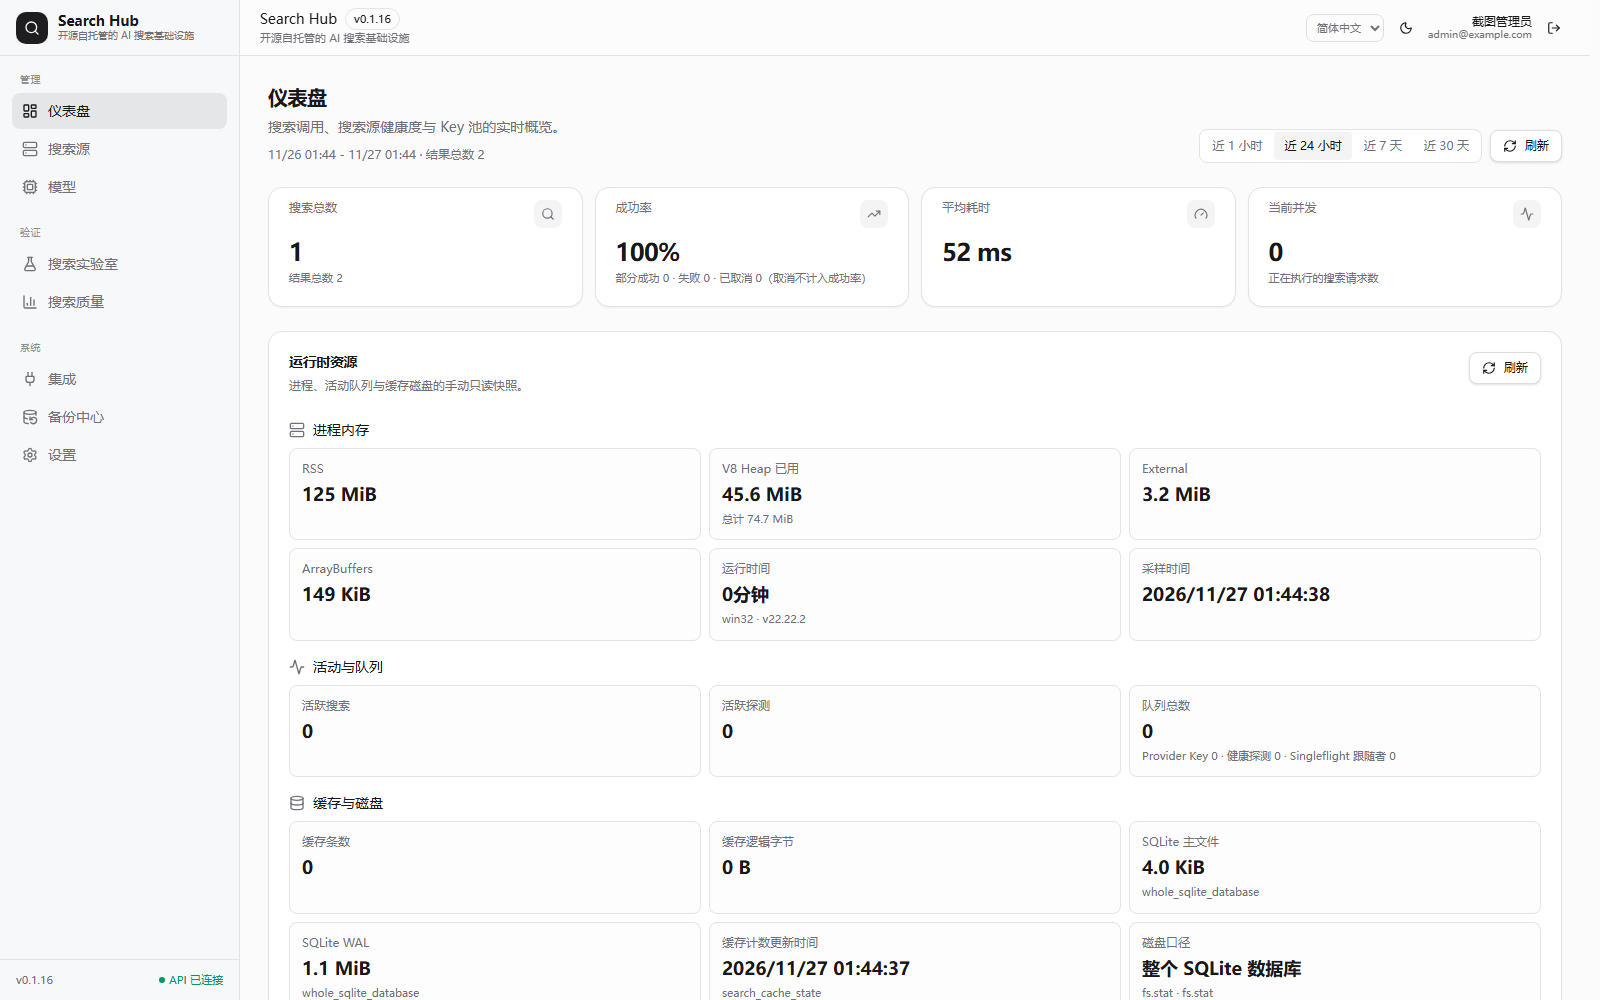
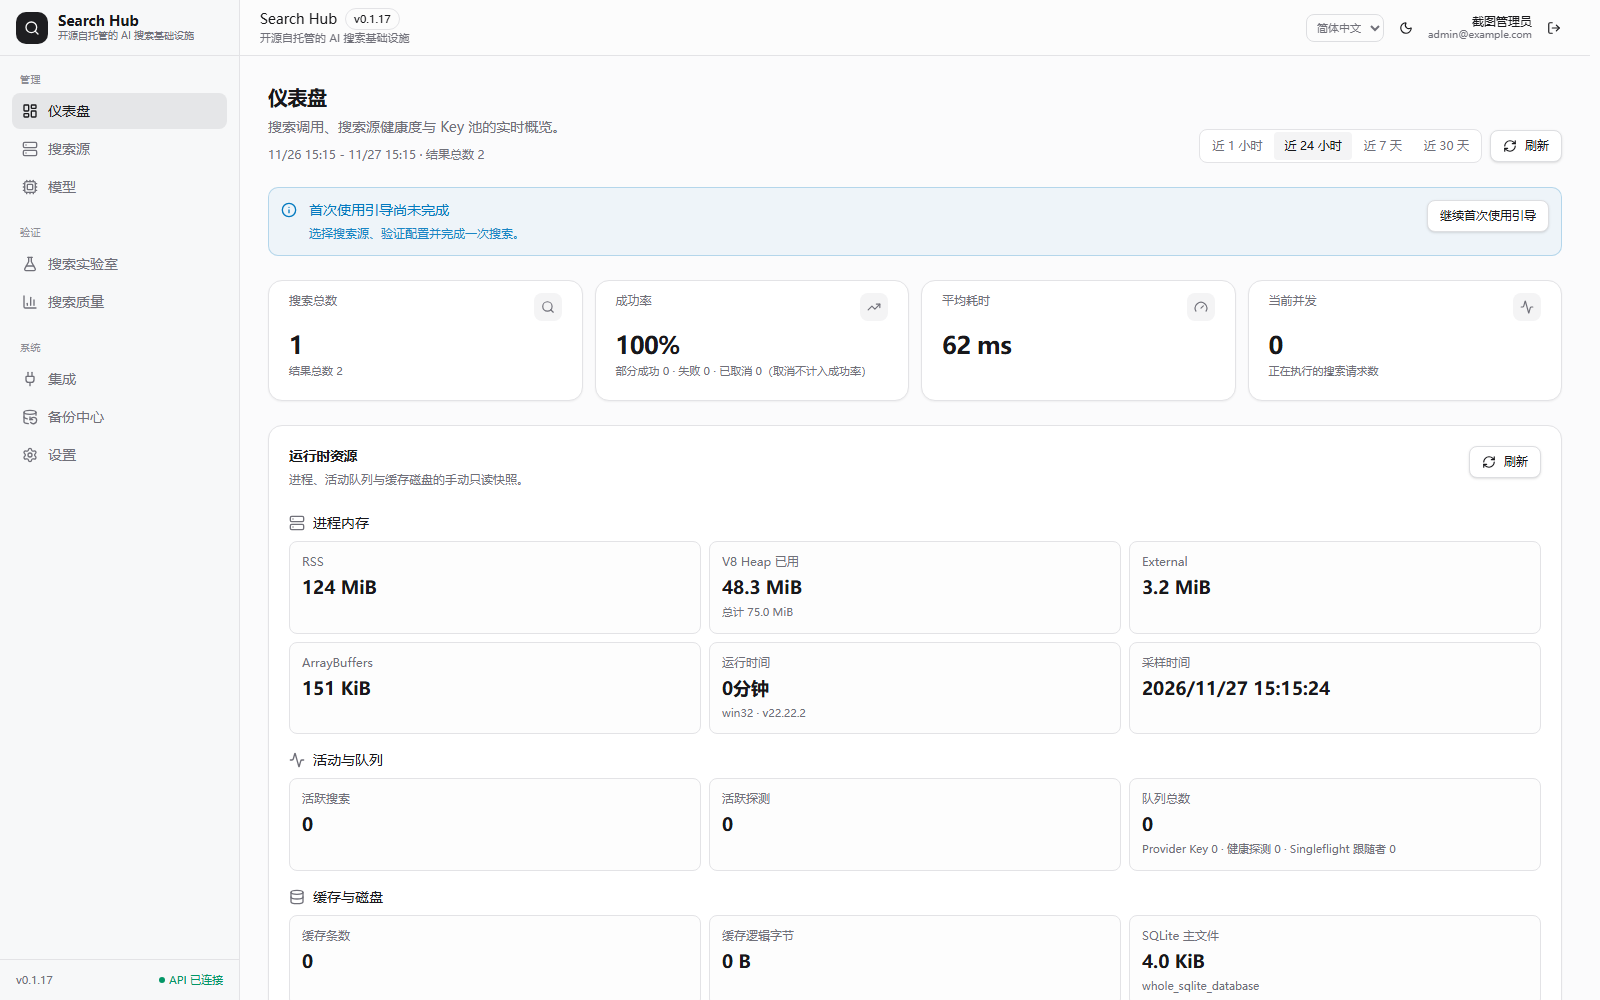
docs: capture v0.1.17 screenshots and update test mapping

diff --git a/tests/unit/readme-consistency.test.ts b/tests/unit/readme-consistency.test.ts
@@ -23,12 +23,12 @@ function actualReadmes() {
 }
 
 function captureComment(file: string, version: string) {
-  return `<!-- CAPTURE_REQUIRED: replace with the real v${version} docs/screenshots/v0116/${file} after capture. -->`;
+  return `<!-- CAPTURE_REQUIRED: replace with the real v${version} docs/screenshots/v0117/${file} after capture. -->`;
 }
 
 function replaceScreenshotsWithCaptureMarkers(text: string, version: string) {
   return text.replace(
-    /!\[[^\]]*\]\(\.\/docs\/screenshots\/v0116\/([^)\s]+)\)/g,
+    /!\[[^\]]*\]\(\.\/docs\/screenshots\/v0117\/([^)\s]+)\)/g,
     (_match, file: string) => captureComment(file, version),
   );
 }
@@ -36,9 +36,9 @@ function replaceScreenshotsWithCaptureMarkers(text: string, version: string) {
 function finalScreenshotRoot(): string {
   const root = mkdtempSync(join(tmpdir(), "search-hub-readme-final-"));
   temporary.push(root);
-  const screenshotDir = join(root, "docs", "screenshots", "v0116");
+  const screenshotDir = join(root, "docs", "screenshots", "v0117");
   mkdirSync(screenshotDir, { recursive: true });
-  for (const name of ["dashboard.png", "search-lab.png", "provider-health.png"]) {
+  for (const name of ["onboarding.png", "dashboard.png", "search-lab.png", "provider-health.png"]) {
     writeFileSync(join(screenshotDir, name), "fixture");
   }
   return root;
@@ -96,31 +96,31 @@ describe("README consistency gate", () => {
 
   it("rejects stale release versions and missing assets", () => {
     const { pkg, zh, en } = actualReadmes();
-    const stale = en.replaceAll("0.1.16", "0.1.15");
+    const stale = en.replaceAll(pkg.version, "0.1.16");
     const problems = checkReadmeConsistency({ zh, en: stale, version: pkg.version });
-    expect(problems.join("\n")).toContain("v0.1.16 Stable");
+    expect(problems.join("\n")).toContain(`v${pkg.version} Stable`);
     expect(problems.join("\n")).toContain("stale release asset");
     const missing = en.replace("`resource-evidence.json`", "`missing.json`");
     expect(checkReadmeConsistency({ zh, en: missing, version: pkg.version }).join("\n"))
       .toContain("missing release asset resource-evidence.json");
   });
 
-  it("requires exactly three interim placeholders and no screenshot links", () => {
+  it("requires exactly four interim placeholders and no screenshot links", () => {
     const { pkg, zh, en } = actualReadmes();
     const interimZh = replaceScreenshotsWithCaptureMarkers(zh, pkg.version);
     const interimEn = replaceScreenshotsWithCaptureMarkers(en, pkg.version);
     const missingOne = interimZh.replace(captureComment("search-lab.png", pkg.version), "");
     expect(checkReadmeConsistency({ zh: missingOne, en: interimEn, version: pkg.version, mode: "interim" }).join("\n"))
-      .toContain("exactly 3 CAPTURE_REQUIRED");
+      .toContain("exactly 4 CAPTURE_REQUIRED");
     const linked = interimZh.replace(
       captureComment("dashboard.png", pkg.version),
-      "![dashboard](./docs/screenshots/v0116/dashboard.png)",
+      "![dashboard](./docs/screenshots/v0117/dashboard.png)",
     );
     expect(checkReadmeConsistency({ zh: linked, en: interimEn, version: pkg.version, mode: "interim" }).join("\n"))
       .toContain("must not link screenshots before capture");
   });
 
-  it("requires zero placeholders and three real files in final mode", () => {
+  it("requires zero placeholders and four real files in final mode", () => {
     const { pkg, zh, en } = actualReadmes();
     const root = finalScreenshotRoot();
     expect(checkReadmeConsistency({ zh, en, version: pkg.version, mode: "final", root })).toEqual([]);
@@ -128,7 +128,7 @@ describe("README consistency gate", () => {
     const interimEn = replaceScreenshotsWithCaptureMarkers(en, pkg.version);
     expect(checkReadmeConsistency({ zh: interimZh, en: interimEn, version: pkg.version, mode: "final", root }).join("\n"))
       .toContain("0 CAPTURE_REQUIRED");
-    rmSync(join(root, "docs", "screenshots", "v0116", "dashboard.png"));
+    rmSync(join(root, "docs", "screenshots", "v0117", "dashboard.png"));
     expect(checkReadmeConsistency({ zh, en, version: pkg.version, mode: "final", root }).join("\n"))
       .toContain("screenshot file is missing");
   });
@@ -137,38 +137,38 @@ describe("README consistency gate", () => {
     const { pkg, zh, en } = actualReadmes();
     const root = mkdtempSync(join(tmpdir(), "search-hub-readme-paths-"));
     temporary.push(root);
-    const screenshotDir = join(root, "docs", "screenshots", "v0116");
+    const screenshotDir = join(root, "docs", "screenshots", "v0117");
     mkdirSync(screenshotDir, { recursive: true });
-    for (const name of ["dashboard.png", "search-lab.png", "provider-health.png"]) {
+    for (const name of ["onboarding.png", "dashboard.png", "search-lab.png", "provider-health.png"]) {
       writeFileSync(join(screenshotDir, name), "fixture");
     }
     const oldVersion = zh.replace(
-      "(./docs/screenshots/v0116/dashboard.png)",
+      "(./docs/screenshots/v0117/dashboard.png)",
       "(./docs/screenshots/v0115/dashboard.png)",
     );
     expect(checkReadmeConsistency({ zh: oldVersion, en, version: pkg.version, mode: "final", root }).join("\n"))
       .toContain("outside the expected set");
     const duplicate = zh.replace(
-      "(./docs/screenshots/v0116/search-lab.png)",
-      "(./docs/screenshots/v0116/dashboard.png)",
+      "(./docs/screenshots/v0117/search-lab.png)",
+      "(./docs/screenshots/v0117/dashboard.png)",
     );
     expect(checkReadmeConsistency({ zh: duplicate, en, version: pkg.version, mode: "final", root }).join("\n"))
       .toContain("final screenshot links must be exactly");
     const outOfScope = zh.replace(
-      "(./docs/screenshots/v0116/provider-health.png)",
-      "(./docs/screenshots/v0116/../private.png)",
+      "(./docs/screenshots/v0117/provider-health.png)",
+      "(./docs/screenshots/v0117/../private.png)",
     );
     expect(checkReadmeConsistency({ zh: outOfScope, en, version: pkg.version, mode: "final", root }).join("\n"))
       .toContain("outside the expected set");
     const outsideTree = zh.replace(
-      "(./docs/screenshots/v0116/provider-health.png)",
+      "(./docs/screenshots/v0117/provider-health.png)",
       "(./assets/dashboard.png)",
     );
     expect(checkReadmeConsistency({ zh: outsideTree, en, version: pkg.version, mode: "final", root }).join("\n"))
       .toContain("final screenshot links must be exactly");
     const normalized = zh.replace(
-      "(./docs/screenshots/v0116/dashboard.png)",
-      "(./docs/screenshots/v0116/../v0116/%64ashboard.png?cache=1#preview)",
+      "(./docs/screenshots/v0117/dashboard.png)",
+      "(./docs/screenshots/v0117/../v0117/%64ashboard.png?cache=1#preview)",
     );
     expect(checkReadmeConsistency({ zh: normalized, en, version: pkg.version, mode: "final", root })).toEqual([]);
     const withOrdinaryAsset = zh.replace("\n\n", "\n![ordinary asset](./assets/logo.png)\n");

diff --git a/tests/unit/release-gate.test.ts b/tests/unit/release-gate.test.ts
@@ -12,9 +12,10 @@ const sha = "a".repeat(40);
 const version = JSON.parse(readFileSync(new URL("../../package.json", import.meta.url), "utf8")).version as string;
 const currentTag = `v${version}`;
 const screenshotFiles = [
-  "docs/screenshots/v0116/dashboard.png",
-  "docs/screenshots/v0116/search-lab.png",
-  "docs/screenshots/v0116/provider-health.png",
+  "docs/screenshots/v0117/onboarding.png",
+  "docs/screenshots/v0117/dashboard.png",
+  "docs/screenshots/v0117/search-lab.png",
+  "docs/screenshots/v0117/provider-health.png",
 ];
 const readmeAnchors = [
   "top", "highlights", "screenshots", "quick-start", "interfaces",
@@ -36,7 +37,7 @@ function finalReadme(english: boolean): string {
   const facts = english
     ? [
         "mcp:use sources:read get_search_sources",
-        "Hacker News Crossref OpenAlex PubMed",
+        "Hacker News Crossref OpenAlex PubMed Wikipedia arXiv GitHub",
         "live_tested documented mock_verified",
         "Windows x64 Linux x64 Linux arm64 Docker Compose",
         "SHA256SUMS resource-evidence.json best-effort",
@@ -44,7 +45,7 @@ function finalReadme(english: boolean): string {
       ]
     : [
         "mcp:use sources:read get_search_sources",
-        "Hacker News Crossref OpenAlex PubMed",
+        "Hacker News Crossref OpenAlex PubMed Wikipedia arXiv GitHub",
         "live_tested documented mock_verified",
         "Windows x64 Linux x64 Linux arm64 Docker Compose",
         "SHA256SUMS resource-evidence.json best-effort",
@@ -70,7 +71,7 @@ function finalReadmeFixture(): string {
   writeFileSync(join(directory, "package.json"), JSON.stringify({ version, engines: { node: ">=22.12.0" } }));
   writeFileSync(join(directory, "README.md"), finalReadme(false));
   writeFileSync(join(directory, "README_EN.md"), finalReadme(true));
-  mkdirSync(join(directory, "docs", "screenshots", "v0116"), { recursive: true });
+  mkdirSync(join(directory, "docs", "screenshots", "v0117"), { recursive: true });
   writeFileSync(
     join(directory, "docs", "cli.md"),
     `# CLI\n\nshub-v${version}-node22.tar.gz\nNode.js >=22.12.0\n\n## Configuration\n`,
@@ -141,7 +142,7 @@ describe("release gate", () => {
 
   it("requires candidate workflow_dispatch evidence only in the six-workflow preflight", () => {
     const mainPush = Object.keys(REQUIRED_WORKFLOWS).map((path) => run(path));
-    const candidate = run("release-candidate.yml", { event: "workflow_dispatch", head_branch: "feat/v0116-stable" });
+    const candidate = run("release-candidate.yml", { event: "workflow_dispatch", head_branch: "feat/v0117-stable" });
     expect(evaluateRuns([...mainPush, candidate], sha).allGreen).toBe(true);
     expect(evaluateRuns(mainPush, sha).allGreen).toBe(true);
     expect(evaluateRuns(mainPush, sha, { includeCandidate: true }).allGreen).toBe(false);
@@ -217,7 +218,7 @@ describe("release gate", () => {
     expect(finalize.match(/gh release edit /g)).toHaveLength(1);
   });
 
-  it("accepts a final README fixture with three screenshots and valid links", () => {
+  it("accepts a final README fixture with four screenshots and valid links", () => {
     expect(verifyFinalReadme(finalReadmeFixture())).toEqual({ ok: true, version });
   });
 

diff --git a/tests/unit/readme-links.test.ts b/tests/unit/readme-links.test.ts
@@ -102,7 +102,7 @@ describe("README relative-link gate", () => {
 
   it("treats image targets as files and rejects a missing screenshot", () => {
     const root = fixtureRoot();
-    const text = "![missing](./docs/screenshots/v0116/dashboard.png)";
+    const text = "![missing](./docs/screenshots/v0117/dashboard.png)";
     expect(checkReadmeLinks({ text, label: "README.md", file: "README.md", root }).join("\n"))
       .toContain("links to missing file");
   });

diff --git a/docs/testing.md b/docs/testing.md
@@ -153,6 +153,29 @@ v0.1.13 历史本地全量已通过 Vitest **1299 项 / 100 文件**、Playwrigh
 
 v0.1.14 增加资源端点、只读认证、队列生命周期、严格进程枚举、OOM 证据、资源证据 fingerprint 与 exact-SHA release gate 测试。M04 是 P0 实测门槛：100,000 行、100 warmup、1,000 次顺序 `GET /api/admin/resources`，P95 ≤ 10ms、稳态 RSS ≤ 2MiB、warmup/正式零写、三个 query plan 均走索引。`pnpm evidence:verify` 校验 8 份 gzip raw、summary、SHA256SUMS、代码/scope fingerprint 与公开证据脱敏；未满足条件的证据保持 BLOCKED。
 
+### v0.1.17 onboarding and provider reliability
+
+The v0.1.17 targeted suites separate browser/control-flow proof from real public-network evidence:
+
+| Area | Files | What it proves |
+|---|---|---|
+| First-run onboarding | `tests/integration/onboarding.test.ts` (6 cases), `tests/e2e/onboarding.spec.ts` (3 cases) | Fresh setup lands on the three-step guide; only recommended built-in keyless `live_tested` raw-search sources are suggested; mock readiness advances the provider step; a real search with results is required to complete; dismiss/complete persist; anonymous and non-admin callers are rejected; legacy settings remain readable. |
+| Public-provider rate limits | `tests/unit/provider-rate-limit.test.ts` (6 cases) | arXiv keeps a 3-second minimum interval and one in-flight request; Wikipedia sends a compliant User-Agent and enforces 60/minute with two in flight; GitHub keyless keeps 10/minute, 60/hour and one in flight; GitHub code search without a token fails before any request. |
+| Public-provider response contracts | `tests/unit/provider-public-contract.test.ts` (21 cases) | Legal empty results stay empty; HTTP 200 business errors and incompatible envelopes fail; 429 preserves `Retry-After`; 408/504 map to `timeout`; mapping/deduplication stays stable; Brave uses upstream raw row count for pagination; arXiv URLs are normalized to HTTPS. |
+| Grounded-answer probe safety | `tests/integration/health.test.ts` | A grounded provider rejects a free `connect` probe before invoking a paid model; a search probe with a verifiable citation counts as success. Runtime health still does not upgrade implementation verification. |
+| Live evidence schema | `tests/unit/doc-consistency.test.ts`, `scripts/check-doc-consistency.mjs` | Evidence must identify the provider, `schemaVersion: 2`, exact 40-character source commit, adapter version, successful request URL/status/result count/sample URLs/latency/recorder, latest attempt and attempt history. |
+
+Reproduce the deterministic suites without vendor credentials:
+
+```bash
+pnpm exec vitest run tests/integration/onboarding.test.ts \
+  tests/unit/provider-rate-limit.test.ts tests/unit/provider-public-contract.test.ts \
+  tests/integration/health.test.ts tests/unit/doc-consistency.test.ts
+pnpm build && pnpm exec playwright test tests/e2e/onboarding.spec.ts
+```
+
+Real keyless checks are a separate, budgeted network activity. On 2026-11-27 the live harness recorded two successful queries each for Wikipedia, arXiv and GitHub, with five HTTPS results per query and no paid API key. Together with the existing Hacker News, Crossref, OpenAlex and PubMed evidence, the catalogue has seven `live_tested` entries. The other entries remain `documented`, `mock_verified` or otherwise unverified; a local stub run never changes that status.
+
 ### v0.1.11 bulk provider test (T01–T46, H61–H66)
 
 Every one of the 45 acceptance cases maps to one file and one executable
@@ -305,8 +328,8 @@ returns 500.
 
 **Credential classes** — `tests/integration/credential-classes.test.ts` (6 cases)
 
-- The catalogue and every adapter agree on which sources take a key: the six
-  public ones declare `authType: none` and `requiresKey: false`, and `brave` /
+- The catalogue and every adapter agree on which sources take a key: public
+  entries declare `authType: none` and `requiresKey: false`, and `brave` /
   `tavily` declare the opposite.
 - A key-required source with no key is `unverified`, never healthy.
 - A keyless source is probed for real (a local stub serving the HN wire format),
@@ -521,7 +544,7 @@ still equals the counts derived from the JSON, so the two files cannot drift.
 | Soak / memory-leak testing | No soak harness yet | Planned |
 | Browser matrix | Chromium only | Firefox/WebKit not run |
 
-**Never** treat a green mock-backed suite as evidence that a real vendor integration works. Hacker News, Crossref, OpenAlex and PubMed have recorded live runs; the other adapters do not.
+**Never** treat a green mock-backed suite as evidence that a real vendor integration works. Hacker News, Crossref, OpenAlex, PubMed, Wikipedia, arXiv and GitHub have recorded live runs; the other adapters do not.
 
 ## Running the smoke script
 

diff --git a/README_EN.md b/README_EN.md
@@ -23,10 +23,10 @@
 <a id="screenshots"></a>
 ## Interface
 
+![First-run onboarding](./docs/screenshots/v0117/onboarding.png)
 ![Search Hub dashboard](./docs/screenshots/v0117/dashboard.png)
 ![Search Lab](./docs/screenshots/v0117/search-lab.png)
 ![Provider health](./docs/screenshots/v0117/provider-health.png)
-
 <a id="quick-start"></a>
 ## Quick start
 
@@ -96,7 +96,7 @@ sha256sum -c SHA256SUMS
 To use the published image from the cloned repository (the image is built for `linux/amd64` only):
 
 ```bash
-SEARCH_HUB_IMAGE=ghcr.io/alicia1030su/search-hub:0.1.16 docker compose up -d
+SEARCH_HUB_IMAGE=ghcr.io/alicia1030su/search-hub:0.1.17 docker compose up -d
 ```
 
 Use the arm64 standalone package on arm64 hosts; Docker arm64 emulation is outside the project's tested configurations.

diff --git a/README.md b/README.md
@@ -23,10 +23,10 @@
 <a id="screenshots"></a>
 ## 界面
 
+![首次使用引导](./docs/screenshots/v0117/onboarding.png)
 ![Search Hub 仪表盘](./docs/screenshots/v0117/dashboard.png)
 ![搜索实验室](./docs/screenshots/v0117/search-lab.png)
 ![搜索源健康](./docs/screenshots/v0117/provider-health.png)
-
 <a id="quick-start"></a>
 ## 快速开始
 
@@ -96,7 +96,7 @@ sha256sum -c SHA256SUMS
 在已克隆的仓库中使用发布镜像（镜像仅构建 `linux/amd64`）：
 
 ```bash
-SEARCH_HUB_IMAGE=ghcr.io/alicia1030su/search-hub:0.1.16 docker compose up -d
+SEARCH_HUB_IMAGE=ghcr.io/alicia1030su/search-hub:0.1.17 docker compose up -d
 ```
 
 arm64 主机请使用 arm64 独立包；Docker arm64 模拟运行不在项目验证范围。
